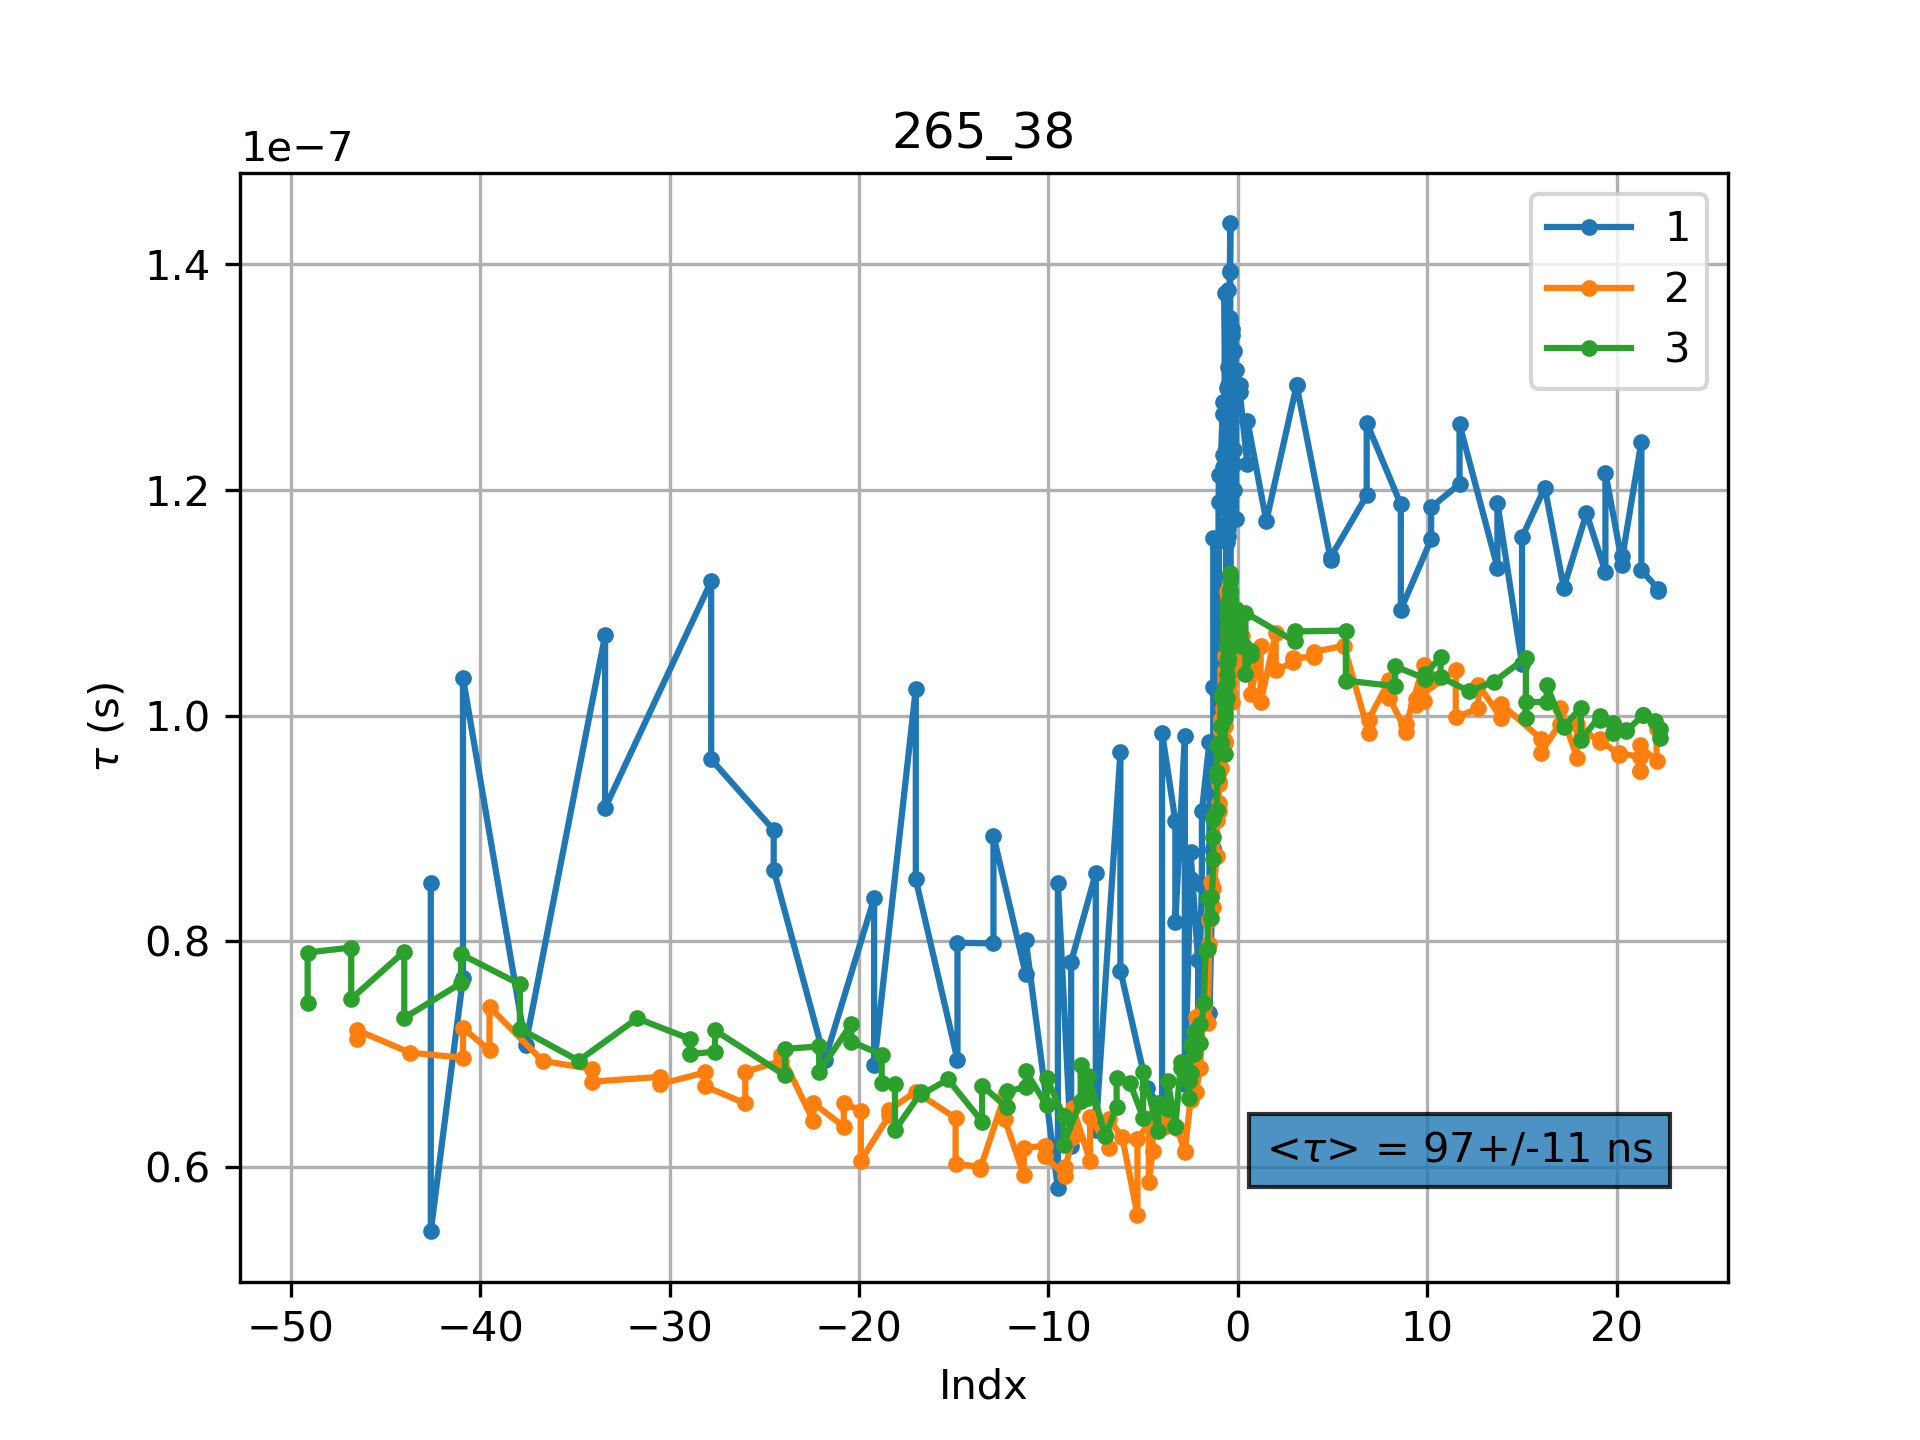
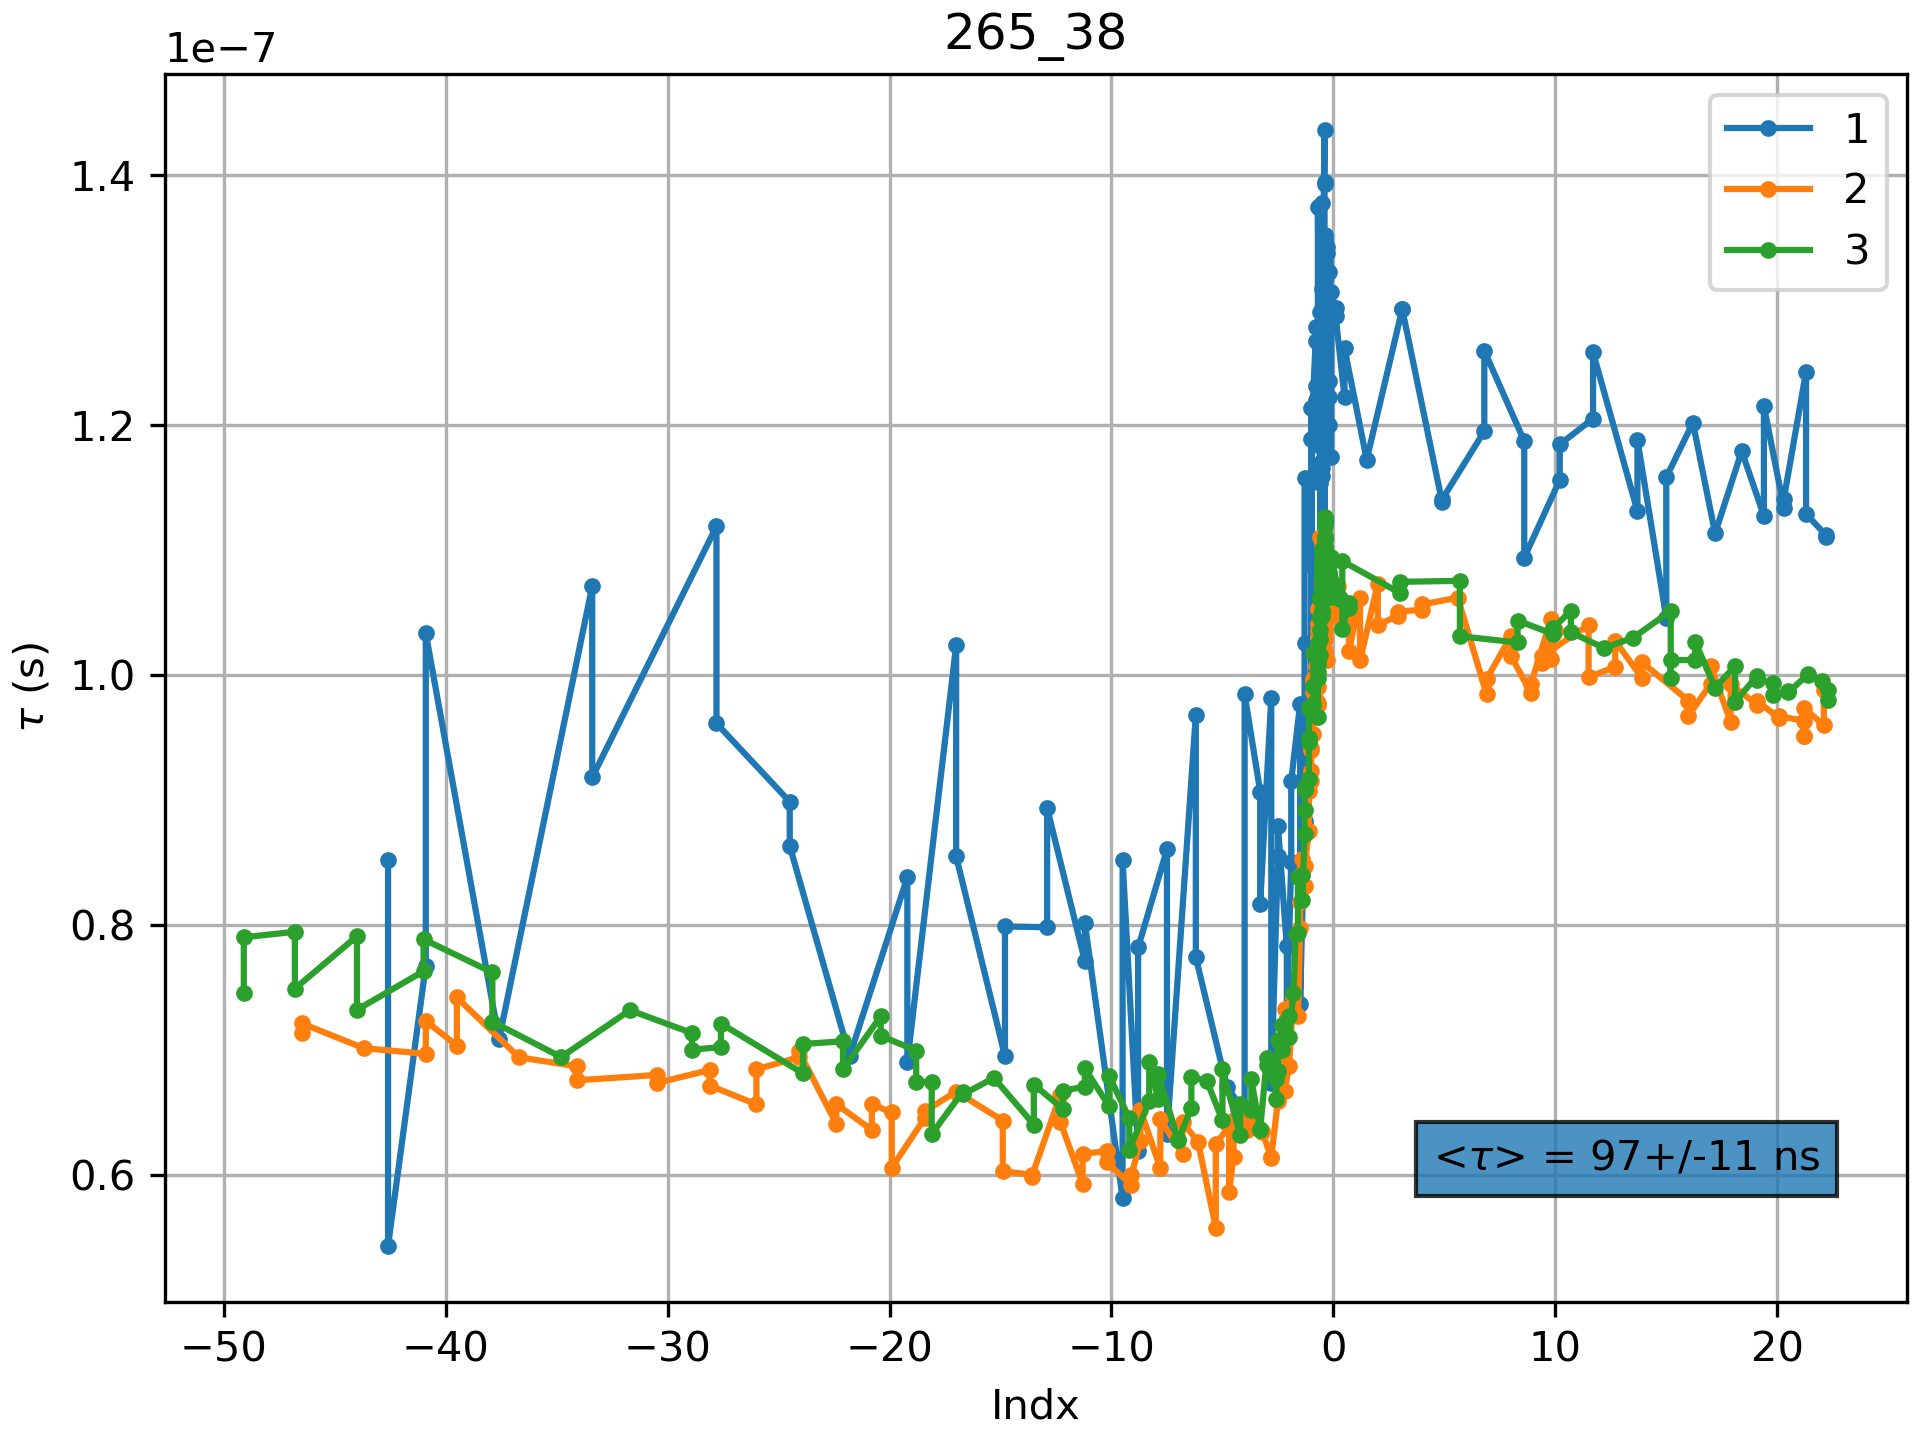
details

diff --git a/Tau.py b/Tau.py
@@ -426,7 +426,7 @@ print(f' tau = {tau3} ns')
 SAR3 = ufloat(np.mean([S.nominal_value for S in SARs_3]),np.std([S.nominal_value for S in SARs_3]))
 print(f' SAR = {SAR3:.2uf} W/g')
 
-fig,ax= plt.subplots()
+fig,ax= plt.subplots(constrained_layout=True)
 ax.plot(temperatura_3_1,tau_3_1,'.-',label='1')
 ax.plot(temperatura_3_2,tau_3_2,'.-',label='2')
 ax.plot(temperatura_3_3,tau_3_3,'.-',label='3')
@@ -483,7 +483,7 @@ print(f' tau = {tau4} ns')
 SAR4 = ufloat(np.mean([S.nominal_value for S in SARs_4]),np.std([S.nominal_value for S in SARs_4]))
 print(f' SAR = {SAR4:.2uf} W/g')
 
-fig,ax= plt.subplots()
+fig,ax= plt.subplots(figsize=(9,5),constrained_layout=True)
 ax.plot(temperatura_4_1,tau_4_1,'.-',label='1')
 ax.plot(temperatura_4_2,tau_4_2,'.-',label='2')
 ax.plot(temperatura_4_3,tau_4_3,'.-',label='3')
@@ -493,7 +493,7 @@ plt.grid()
 plt.ylabel(r'$\tau$ (s)')
 plt.xlabel('Indx')
 plt.title(identif_4)
-#plt.savefig('tau_'+identif_4+'.png',dpi=300)
+plt.savefig('tau_'+identif_4+'.png',dpi=300)
 plt.show()
 #%CICLOS
 archivos_ciclos_4 = [f for f in os.listdir(dir_4) if  fnmatch.fnmatch(f, '*promedio*')]
@@ -502,7 +502,7 @@ filepaths_4 = [os.path.join(dir_4,f) for f in archivos_ciclos_4]
 for ac in archivos_ciclos_4:
     print(ac)
 
-fig2,ax2=plt.subplots(constrained_layout=True)
+fig2,ax2=plt.subplots(figsize=(9,5),constrained_layout=True)
 for i,fp in enumerate(filepaths_4):
     t,H,M,metadata=lector_ciclos(fp)
     ax2.plot(H,M,label=f'{SARs_4[i]:1f} W/g')
